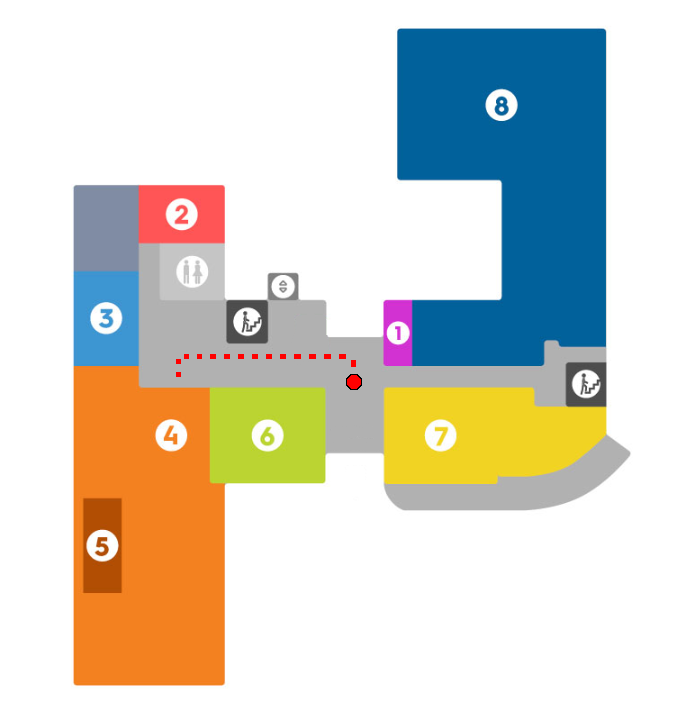
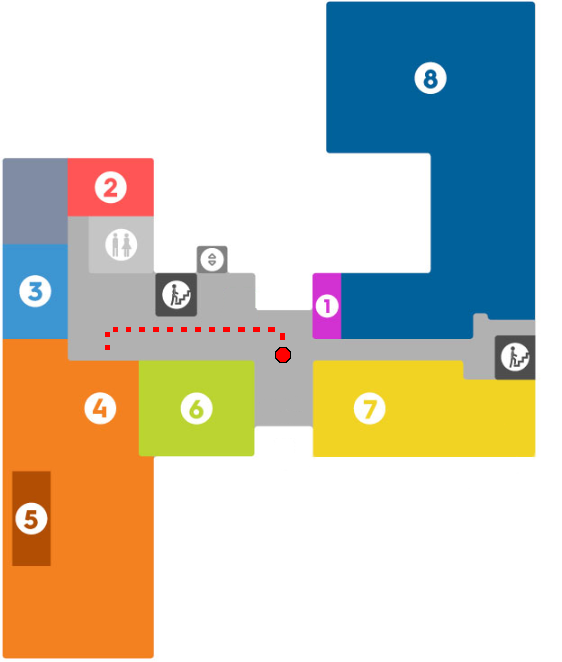
Alter css maps responsevi

Changed region(s): [[0.0, 0.0, 0.968, 0.997], [0.6957, 0.0906, 0.8167, 0.1813]]

diff --git a/src/app/components/Maps/Maps.module.css b/src/app/components/Maps/Maps.module.css
@@ -236,7 +236,10 @@
 
 .selectContainer {
   position: relative;
-  display: inline-block;
+  display: flex;
+  align-items: center;
+  justify-content: center;
+  
 }
 
 .selectContainer select {
@@ -272,4 +275,138 @@
   background-color: #fff;
   color: #333;
   font-family: cursive;
+}
+
+.divItensMobile {
+  display: flex;
+  align-content: center;
+  justify-content: center;
+  flex-direction: column;
+  gap: 1rem;
+}
+
+@media (max-width: 1600px) {
+  .imgMap {
+    width: 400px;
+    height: 390px;
+  }
+
+  .legendItens {
+    gap: 1rem;
+    font-size: 15px;
+  }
+
+  .h1Itens {
+    font-size: 1rem;
+  }
+
+  .selectContainer select {
+    font-size: 1rem;
+  }
+}
+
+@media (max-width: 1100px) {
+  .imgMaps {
+    display: flex;
+    justify-content: center;
+    align-items: center;
+    flex-direction: column;
+  }
+
+  .imgMaps {
+    width: 100%;
+    height: 80%;
+  }
+
+  .divLegend {
+    width: 100%;
+    border: 0px solid;
+    border-top: 3px solid black;
+  }
+
+  .ulLegend {
+    width: 100%;
+    display: flex;
+    align-items: center;
+    justify-content: center;
+    flex-direction: column;
+    flex-wrap: wrap;
+  }
+
+  .imgMap {
+    width: 350px;
+    height: 340px;
+  }
+
+  .legendItens {
+    gap: 0.5rem;
+    font-size: 13px;
+  }
+
+  .h1Itens {
+    font-size: 1rem;
+  }
+
+  .selectContainer select {
+    font-size: 1rem;
+  }
+
+  .qrcode {
+    width: 70px;
+    height: 70px;
+  }
+
+  .imgQrcode {
+    width: 35px;
+    height: 35px;
+  }
+
+  .homeMap {
+    width: 85%;
+  }
+}
+
+@media (max-width: 900px) {
+  .mainMaps {
+    width: 100%;
+    height: 100%;
+    padding: 2rem 14%;
+  }
+  .h1Itens{
+    padding: 1rem 0.2rem;
+  }
+}
+
+@media (max-width: 650px) {
+  .divHeader{
+    justify-content: space-between;
+    padding: 0.5rem 1.3rem;
+  }
+
+  .mainMaps {
+    width: 100%;
+    height: 100%;
+    padding: 2rem 10%;
+  }
+}
+
+@media (max-width: 550px) {
+  .mainMaps {
+    width: 100%;
+    height: 100%;
+    padding: 1rem;
+  }
+}
+
+@media (max-width: 500px) {
+  .divMaps{
+    padding: 0;
+  }
+}
+
+@media (max-width: 500px) {
+  .imgMap {
+    width: 250px;
+    height: 240px;
+  }
 }

diff --git a/src/app/components/Maps/Maps.tsx b/src/app/components/Maps/Maps.tsx
@@ -42,7 +42,9 @@ export default function MapsComp() {
               <div className={styles.homeMap}>
                 <div className={styles.divItensMobile}>
                   <div className={styles.selectContainer}>
-                    <label htmlFor="andarSelect" className={styles.h1Itens}>Selecione o Andar:</label>
+                    <label htmlFor="andarSelect" className={styles.h1Itens}>
+                      Selecione o Andar:
+                    </label>
                     <select
                       id="andarSelect"
                       value={selectedAndar}
@@ -60,19 +62,20 @@ export default function MapsComp() {
                       ))}
                     </select>
                   </div>
-                </div>
-                <img
-                  src="/assets/Map.png"
-                  alt="imgMap"
-                  className={styles.imgMap}
-                />
-                <div className={styles.divQrcode}>
-                  <div className={styles.qrcode}>
-                    <img
-                      src="/assets/qrcode.png"
-                      alt="imgQrcode"
-                      className={styles.imgQrcode}
-                    />
+
+                  <img
+                    src="/assets/Map.png"
+                    alt="imgMap"
+                    className={styles.imgMap}
+                  />
+                  <div className={styles.divQrcode}>
+                    <div className={styles.qrcode}>
+                      <img
+                        src="/assets/qrcode.png"
+                        alt="imgQrcode"
+                        className={styles.imgQrcode}
+                      />
+                    </div>
                   </div>
                 </div>
               </div>
